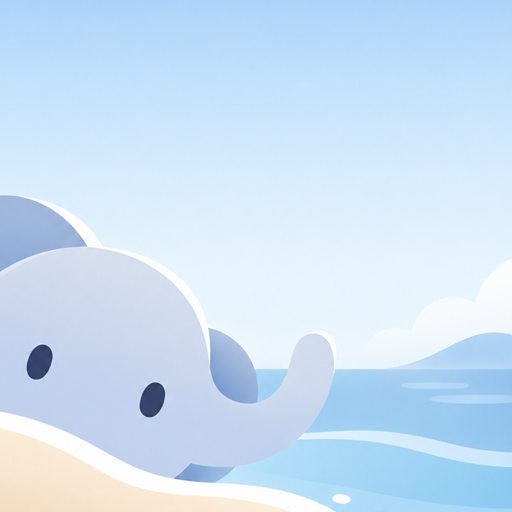
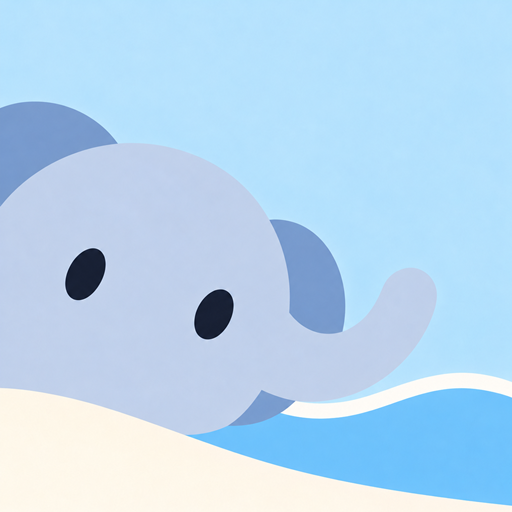
ui: メニューとアカウント表示を調整しアプリアイコンを更新
ホームのフィード選択に共通メニューを適用し、チェック表示は設定だけに維持。アカウント切り替え画像を36dpに拡大。プロフィールメニューの区切りをグループ単位に整理し、関連仕様とランチャー・Play用アイコンを更新。

確認: :app:compileDebugKotlin 成功、git diff --cached --check 成功。実機での見た目はユーザー確認。表示変更のため固定値テストは追加せず。既存のapp/変更向けCIで対応できるため、CIパス・コマンド・ツール版の更新は不要。

diff --git a/app/src/main/java/io/github/ponpokoo/mastodonclient/feature/timeline/HomeTimelineScreen.kt b/app/src/main/java/io/github/ponpokoo/mastodonclient/feature/timeline/HomeTimelineScreen.kt
@@ -75,8 +75,8 @@ import androidx.compose.material.icons.outlined.Settings
 import androidx.compose.material3.CircularProgressIndicator
 import androidx.compose.material3.Badge
 import androidx.compose.material3.BadgedBox
-import androidx.compose.material3.DropdownMenu
-import androidx.compose.material3.DropdownMenuItem
+import io.github.ponpokoo.mastodonclient.feature.common.AppDropdownMenu
+import io.github.ponpokoo.mastodonclient.feature.common.AppDropdownMenuItem
 import androidx.compose.material3.ExperimentalMaterial3Api
 import androidx.compose.material3.HorizontalDivider
 import androidx.compose.material3.Icon
@@ -793,18 +793,15 @@ internal fun TimelineTopBar(
                     )
                     Icon(Icons.Outlined.ArrowDropDown, contentDescription = "フィードを切り替える")
                 }
-                DropdownMenu(expanded = feedMenuOpen, onDismissRequest = { feedMenuOpen = false }) {
+                AppDropdownMenu(expanded = feedMenuOpen, onDismissRequest = { feedMenuOpen = false }) {
                     TimelineFeed.entries.forEach { feed ->
-                        DropdownMenuItem(
-                            text = {
-                                Text(
-                                    when (feed) {
-                                        TimelineFeed.Home -> "ホーム"
-                                        TimelineFeed.Local -> "ローカル"
-                                        TimelineFeed.Federated -> "連合"
-                                    },
-                                )
+                        AppDropdownMenuItem(
+                            label = when (feed) {
+                                TimelineFeed.Home -> "ホーム"
+                                TimelineFeed.Local -> "ローカル"
+                                TimelineFeed.Federated -> "連合"
                             },
+                            isSelected = feed == selectedFeed,
                             onClick = {
                                 feedMenuOpen = false
                                 onFeedSelected(feed)
@@ -822,7 +819,7 @@ internal fun TimelineTopBar(
                         activeSession?.accountId, "timeline-account-switcher"),
                     retainPreviousImage = true,
                     contentDescription = "アカウントを切り替える",
-                    modifier = Modifier.size(30.dp).clip(CircleShape)
+                    modifier = Modifier.size(36.dp).clip(CircleShape)
                         .background(MaterialTheme.colorScheme.surface),
                     contentScale = ContentScale.Crop,
                 )

diff --git a/app/src/main/java/io/github/ponpokoo/mastodonclient/feature/profile/ProfileContent.kt b/app/src/main/java/io/github/ponpokoo/mastodonclient/feature/profile/ProfileContent.kt
@@ -376,7 +376,9 @@ internal fun ProfileContent(
 
                                 }
                                 webLinks?.about?.let { url ->
-                                    add(ProfileMenuAction("このサーバーについて", startsGroup = true) { profileMenuExpanded = false; onOpenLink(url) })
+                                    add(ProfileMenuAction("このサーバーについて",
+                                        startsGroup = !profile.isOwnProfile || webLinks.settings == null,
+                                    ) { profileMenuExpanded = false; onOpenLink(url) })
                                 }
                             },
                         )

diff --git a/app/src/main/java/io/github/ponpokoo/mastodonclient/feature/profile/ProfileDropdownMenu.kt b/app/src/main/java/io/github/ponpokoo/mastodonclient/feature/profile/ProfileDropdownMenu.kt
@@ -24,8 +24,8 @@ internal fun ProfileDropdownMenu(
         onDismissRequest = onDismissRequest,
     ) {
         actions.forEachIndexed { index, action ->
-            if (index > 0) {
-                AppMenuDivider(startsGroup = action.startsGroup)
+            if (index > 0 && action.startsGroup) {
+                AppMenuDivider(startsGroup = true)
             }
             AppDropdownMenuItem(
                 label = action.label,

diff --git a/docs/ui/settings-moderation.md b/docs/ui/settings-moderation.md
@@ -13,7 +13,7 @@
 `SettingsScreen` はカテゴリ一覧から詳細へ進む2階層構成とする。外観、タイムライン表示、メディア、タイムラインと通信、通知、投稿、ミュート・ブロックの管理、アカウント管理、ストレージ、このアプリについてを表示する。詳細から戻るとカテゴリ一覧へ戻り、一覧から戻ると元の画面へ戻る。設定はDataStoreへ保存し、表示へ反映する。
 アカウント別の設定キーはローカルのセッションID。その他はアプリ全体に適用する。
 
-選択式の設定メニューはプロフィールと共通の背景・角丸・区切り・余白を使い、現在の選択肢にチェックを表示する。
+選択式の設定メニューはプロフィールと共通の背景・角丸・余白を使い、現在の選択肢にチェックを表示する。
 幅は選択肢に合わせ、長い文言は折り返す。フィルターの有効期限は入力欄に合う幅とラジオ表示を維持する。
 
 ### 設定一覧
